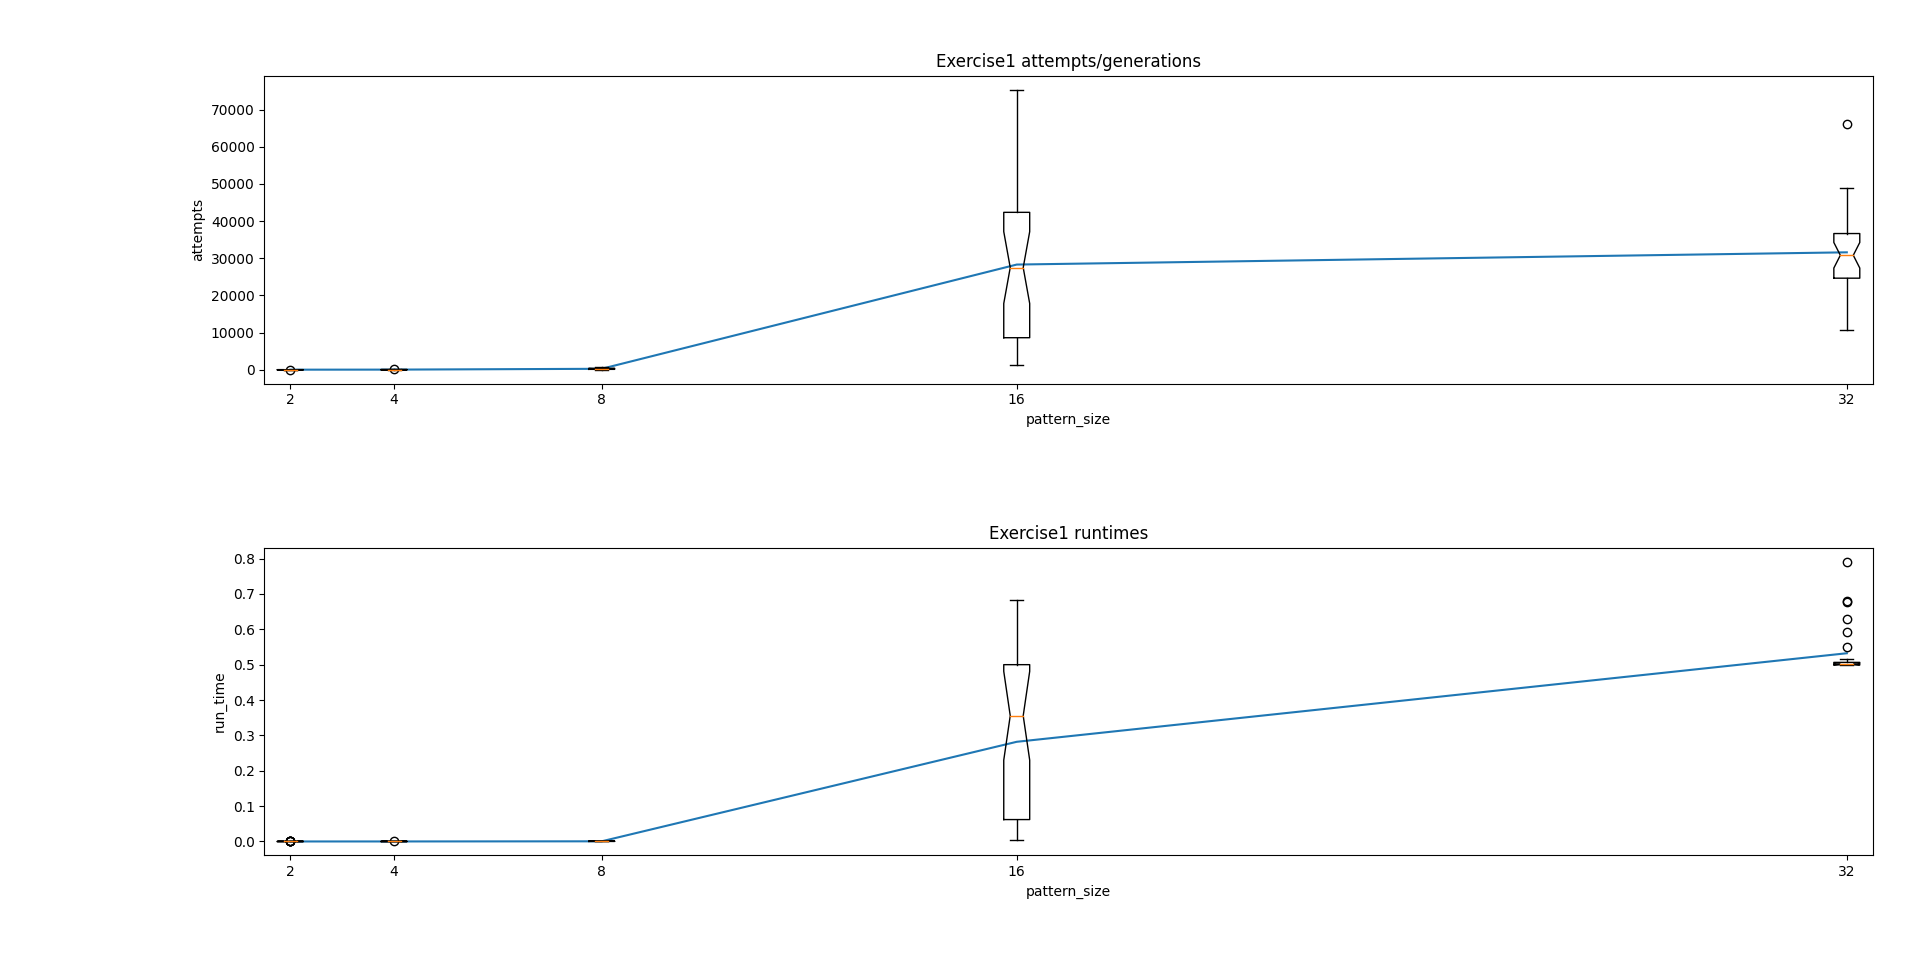
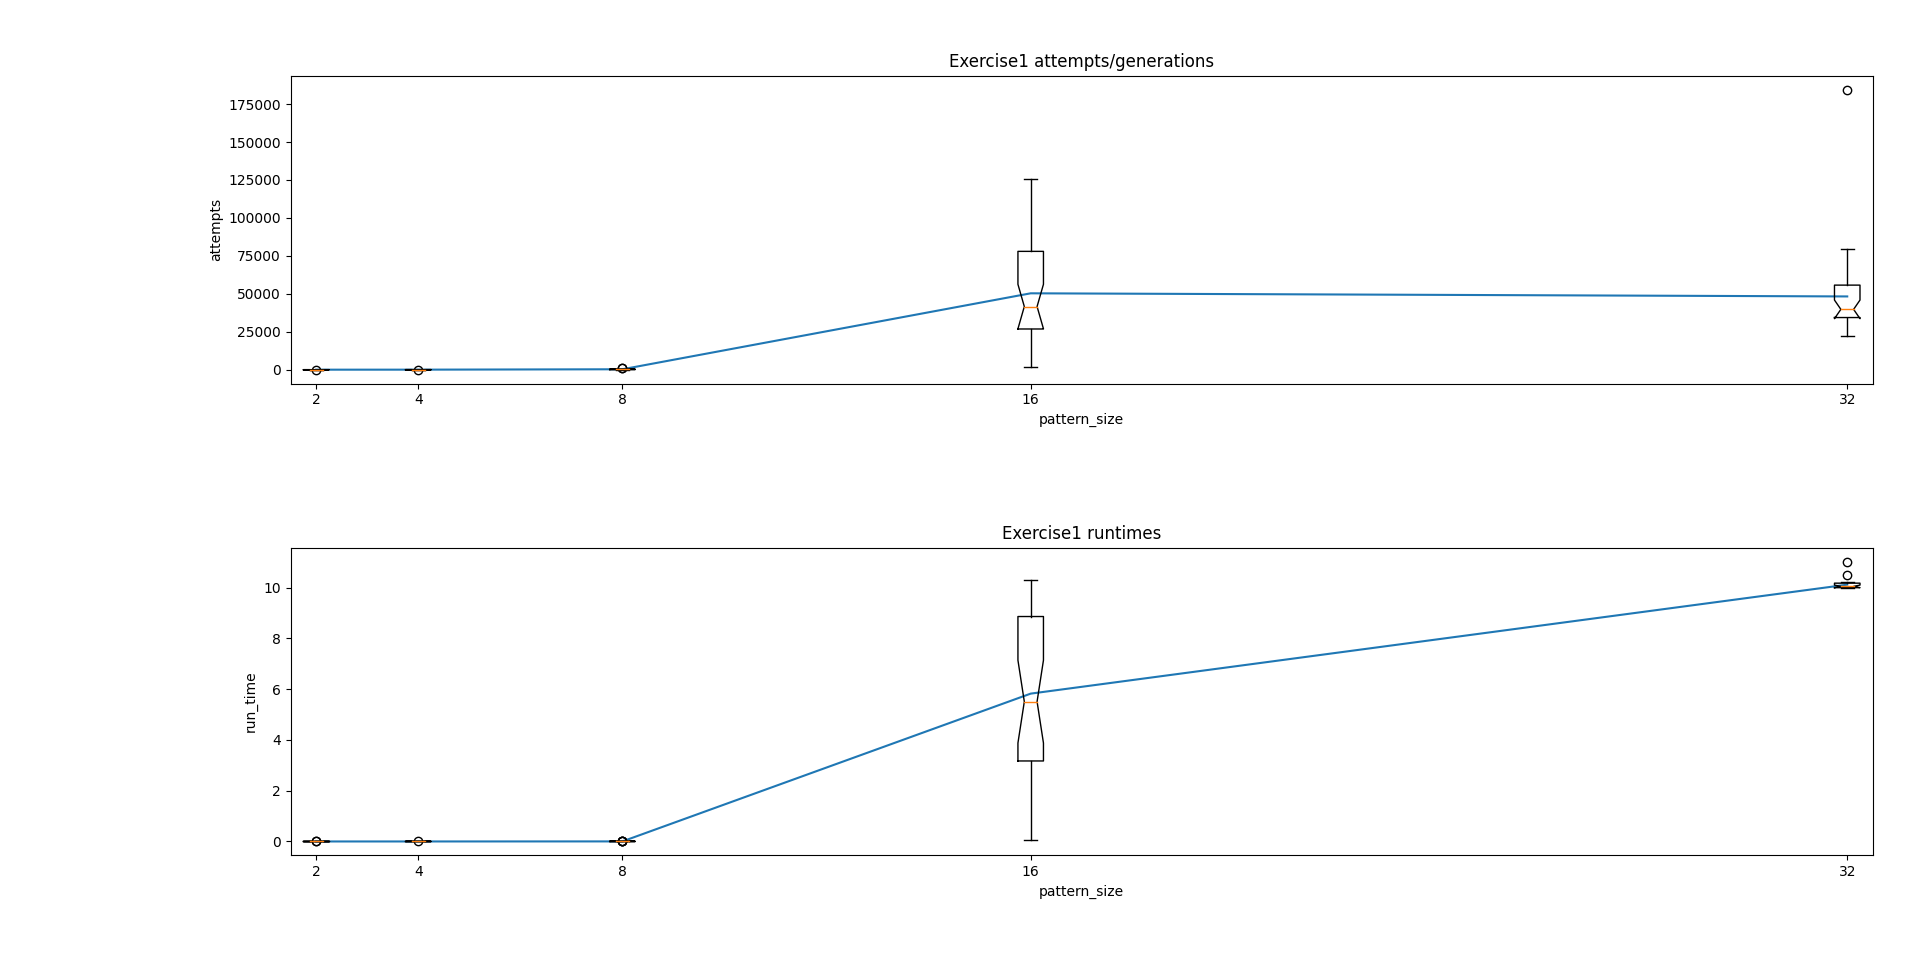
Fixed issue with the end condition for while loop in exercise1 and 2 Crossover in exercise5 Fitness, Mutation and Crossover in exercise6 Fixed print statement in Thread_Launcher.store_result

diff --git a/Assignment2_EvolutionaryMastermindSimulator/Exercises/Exercise6.py b/Assignment2_EvolutionaryMastermindSimulator/Exercises/Exercise6.py
@@ -7,6 +7,8 @@ from random import randint
 from Assignment2_EvolutionaryMastermindSimulator.Logic.Mastermind import Mastermind
 
 
+# First we would have to change the way we generate our patterns to acomodate the new decimal format
+
 def random_decimal_pattern(size: int) -> str:
     result: str = ""
     for _ in range(size):
@@ -19,13 +21,15 @@ def random_decimal() -> str:
     return random.choice(numbers)
 
 
+# Para avaliar os novos padrões decimais estou a iterar por todos os caracteres de ambos os padrões e
+# convertendo em numeros inteiros, depois calculo o absoluto da subtração do goal pelo curr
 def evaluate_decimal(goal: str, curr: str) -> int:
     # _dif_counter: int = max(len(goal), len(curr))
     _dif_counter: int = 0
     for charindex in range(min(len(curr), len(goal))):
         _goal_int: int = int(goal[charindex])
         _current_int: int = int(curr[charindex])
-        _dif_counter += _goal_int - _current_int
+        _dif_counter += abs(_goal_int - _current_int)
         # if curr[charindex] == goal[charindex]:
         #    _dif_counter -= 1
 
@@ -38,30 +42,104 @@ def evaluate_decimal_test():
         _current: str = random_decimal_pattern(4)
         _evaluation: int = evaluate_decimal(goal=_goal, curr=_current)
         print("goal=", _goal, "\t_current=", _current, "\tevaluation=", _evaluation)
+    print("goal=", "01231", "\t_current=", "01231", "\tevaluation=", evaluate_decimal(goal="01231", curr="01231"))
+    print("goal=", "01231", "\t_current=", "01233", "\tevaluation=", evaluate_decimal(goal="01231", curr="01233"))
 
 
-# Para corrigir a função de avaliação poderiamos, por exemplo armazenar o numero de caracteres iguais nos
-# dois padroẽs e dividir pelo tamanho do padrão maior entre os dois desta maneira tratamos de todas as
-# possibilidades, o goal ser maior e o goal ser menor, atribuindo menos fitness e ambas
+# Para corrigir a função de fitness
 def fitness_decimal(goal: str, curr: str) -> float:
-    pass
+    _max_diff: int = 9 * max(len(goal), len(curr))
+    _dif_counter: int = 9 * min(len(goal), len(curr))
+
+    for charindex in range(min(len(curr), len(goal))):
+        _goal_int: int = int(goal[charindex])
+        _current_int: int = int(curr[charindex])
+        _dif_counter -= abs(_goal_int - _current_int)
+        # if curr[charindex] == goal[charindex]:
+        #    _dif_counter -= 1
+
+    return _dif_counter / _max_diff
 
 
-def fitness_decimal_test(): pass
+def fitness_decimal_test():
+    for _ in range(10):
+        _goal: str = random_decimal_pattern(random.randint(1, 4))
+        _current: str = random_decimal_pattern(random.randint(1, 4))
+        _evaluation: float = fitness_decimal(goal=_goal, curr=_current)
+        print("goal=", _goal, "\t_current=", _current, "\tfitness=", _evaluation)
+    print("goal=", "01231", "\t_current=", "01231", "\tfitness=", fitness_decimal(goal="01231", curr="01231"))
+    print("goal=", "01231", "\t_current=", "012315", "\tfitness=", fitness_decimal(goal="01231", curr="012315"))
+    print("goal=", "01231", "\t_current=", "01233", "\tfitness=", fitness_decimal(goal="01231", curr="01233"))
+    print("goal=", "01231", "\t_current=", "012330", "\tfitness=", fitness_decimal(goal="01231", curr="012330"))
+    print("goal=", "01231", "\t_current=", "0123", "\tfitness=", fitness_decimal(goal="01231", curr="0123"))
 
 
-# In mutation my guess is that the function will have the chance of adding or removing a random bit
+# Para a função de mutação apenas terei de somar ou subtrair um valor a un caracter aleatório do padrão
+# para alem disso, como antes ter em conta as chances para adicionar ou remover um caracter
 
-def mutate_decimal_size(input: str) -> str: pass
+def mutate_decimal_size(mutation_input: str) -> str:
+    input_as_list = list(mutation_input)
+    # print(input_as_list)
+    same_add_remove: int = random.choice([1, 2, 3])
+    if same_add_remove == 1:
+        # same_length
+        index = randint(0, len(mutation_input) - 1)
+        print("same_length in ", index)
+        add_or_subtract = random.choice([True, False])
+        int_index_value: int = int(input_as_list[index])
+        if add_or_subtract:
+            input_as_list[index] = str(int_index_value + 1)
+        else:
+            input_as_list[index] = str(int_index_value - 1)
+
+    elif same_add_remove == 2:
+        # remove_bit
+        index = randint(0, len(mutation_input) - 1)
+        print("remove_bit in", index)
+        input_as_list.pop(index)
+    else:
+        # add_bit
+        index = randint(0, len(mutation_input))
+        _new_bit: str = random_decimal()
+        print("added_bit", _new_bit, " in", index)
+        input_as_list.insert(index, _new_bit)
+    # print(input_as_list)
+    return "".join(input_as_list)
 
 
-def mutate_decimal_test(): pass
+def mutate_decimal_test():
+    for _ in range(10):
+        _random: str = random_decimal_pattern(3)
+        _mutated: str = mutate_decimal_size(mutation_input=_random)
+        print(_random, _mutated)
+
+
+# Para um padrão de numeros decimais a função de crossover
+
+def crossover_decimal(input_a: str, input_b: str) -> str:
+    first_input = random.choice([True, False])
+    slice_index = randint(0, min(len(input_a), len(input_b)))
+    if first_input:
+        return input_a[0:slice_index+1] + input_b[slice_index-1:len(input_b)]
+    else:
+        return input_b[0:slice_index+1] + input_a[slice_index-1:len(input_a)]
+
+
+def crossover_decimal_test():
+    for _ in range(10):
+        _random_a: str = random_decimal_pattern(random.randint(1, 4))
+        _random_b: str = random_decimal_pattern(random.randint(1, 4))
+        _crossover_value: str = crossover_decimal(input_a=_random_a, input_b=_random_b)
+        print(_random_a, _random_b, _crossover_value)
 
 
 if __name__ == '__main__':
+    random.seed(1)
     print("----------evaluate_decimal_test----------")
     evaluate_decimal_test()
-    print("----------fitness_decimal----------")
+    print("----------fitness_decimal----------------")
     fitness_decimal_test()
-    print("----------mutate_decimal_test----------")
+    print("----------mutate_decimal_test-----------")
     mutate_decimal_test()
+    print("----------crossover_decimal_test-----------")
+    crossover_decimal_test()

diff --git a/Assignment2_EvolutionaryMastermindSimulator/Exercises/Exercise5.py b/Assignment2_EvolutionaryMastermindSimulator/Exercises/Exercise5.py
@@ -52,13 +52,13 @@ def fitness_undefined_size_test():
 
 # In mutation my guess is that the function will have the chance of adding or removing a random bit
 
-def mutate_undefined_size(input: str) -> str:
-    input_as_list = list(input)
+def mutate_undefined_size(mutation_input: str) -> str:
+    input_as_list = list(mutation_input)
     # print(input_as_list)
     same_add_remove: int = randint(0, 3)
     if same_add_remove == 1:
         # same_length
-        index = randint(0, len(input) - 1)
+        index = randint(0, len(mutation_input) - 1)
         print("same_length in ", index)
         if input_as_list[index] == "0":
             input_as_list[index] = "1"
@@ -66,30 +66,52 @@ def mutate_undefined_size(input: str) -> str:
             input_as_list[index] = "0"
     elif same_add_remove == 2:
         # remove_bit
-        index = randint(0, len(input) - 1)
+        index = randint(0, len(mutation_input) - 1)
         print("remove_bit in", index)
         input_as_list.pop(index)
     else:
         # add_bit
-        index = randint(0, len(input))
-        _new_bit:str = Mastermind.random_bit()
-        print("added_bit",_new_bit," in", index )
-        input_as_list.insert(index,_new_bit )
+        index = randint(0, len(mutation_input))
+        _new_bit: str = Mastermind.random_bit()
+        print("added_bit", _new_bit, " in", index)
+        input_as_list.insert(index, _new_bit)
     # print(input_as_list)
     return "".join(input_as_list)
 
 
 def mutate_undefined_size_test():
     for _ in range(10):
-        _random: str = Mastermind.random_bit_pattern(3)
-        _mutated: str = mutate_undefined_size(input=_random)
+        _random: str = Mastermind.random_bit_pattern(random.randint(1, 4))
+        _mutated: str = mutate_undefined_size(mutation_input=_random)
         print(_random, _mutated)
 
 
+# Para um tamanho indefinido de padrão temos apenas de nos certificar que o meio da divisão
+# não é maior que o tamanho de nenhum dos padrões
+
+def crossover_undefined_size(input_a: str, input_b: str) -> str:
+    first_input = randint(0, 1)
+    slice_index = randint(0, min(len(input_a), len(input_b)))
+    if first_input == 0:
+        return input_a[0:slice_index] + input_b[slice_index:len(input_b)]
+    else:
+        return input_b[0:slice_index] + input_a[slice_index:len(input_a)]
+
+
+def crossover_undefined_size_test():
+    for _ in range(10):
+        _random_a: str = Mastermind.random_bit_pattern(random.randint(1, 4))
+        _random_b: str = Mastermind.random_bit_pattern(random.randint(1, 4))
+        _crossover_value: str = crossover_undefined_size(input_a=_random_a, input_b=_random_b)
+        print(_random_a, _random_b, _crossover_value)
+
+
 if __name__ == '__main__':
-    print("----------evaluate_undefined_size_test----------")
+    print("----------evaluate_undefined_size_test-----------")
     evaluate_undefined_size_test()
-    print("----------fitness_undefined_size----------")
+    print("----------fitness_undefined_size-----------------")
     fitness_undefined_size_test()
-    print("----------mutate_undefined_size_test----------")
+    print("----------mutate_undefined_size_test-------------")
     mutate_undefined_size_test()
+    print("----------crossover_undefined_size_test----------")
+    crossover_undefined_size_test()

diff --git a/Assignment2_EvolutionaryMastermindSimulator/Exercises/Exercise2.py b/Assignment2_EvolutionaryMastermindSimulator/Exercises/Exercise2.py
@@ -29,35 +29,37 @@ def _assignment2_exercise2_line_a(pattern_size: int):
     _goal = Mastermind.random_bit_pattern(pattern_size)
     _current_pattern = Mastermind.random_bit_pattern(pattern_size)
     _results_attempts: int = 0
-    success = True
+    _success = True
 
     _results_start = timeit.default_timer()
     while _current_pattern != _goal:
         if timeit.default_timer() - _results_start > TIME_LIMIT:
-            success = False
+            _success = False
             result = Result(run_time=timeit.default_timer() - _results_start, attempts=_results_attempts,
                             pattern_size=pattern_size,
-                            successfull=success)
+                            successfull=_success)
             store_result(result=result, results=exercise2_results_list, lock=exercise2_lock)
-        _original_fitness = Mastermind.fitness(goal=_goal, curr=_current_pattern)
-        _counter: int = 0
-        _mutated: str = _current_pattern
-        while Mastermind.fitness(goal=_goal, curr=_mutated) <= _original_fitness and _counter < 1000:
-            _mutated = Mastermind.mutate(_current_pattern)
-            _results_attempts += 1
-            _counter += 1
-        _current_pattern = _mutated
+            return
+        else:
+            _original_fitness = Mastermind.fitness(goal=_goal, curr=_current_pattern)
+            _counter: int = 0
+            _mutated: str = _current_pattern
+            while Mastermind.fitness(goal=_goal, curr=_mutated) <= _original_fitness and _counter < 1000:
+                _mutated = Mastermind.mutate(_current_pattern)
+                _results_attempts += 1
+                _counter += 1
+            _current_pattern = _mutated
         # print("Assignment2::Exercise2::demo_graph::randomTest::goal:",_goal,"current:",_current_pattern)
         # fitnesses_list[bits.index(pattern_size)].append(Mastermind.fitness(goal=_goal, curr=_mutated))
-    _results_stop = timeit.default_timer()
-
-    result = Result(
-        run_time=_results_stop - _results_start,
-        attempts=_results_attempts,
-        pattern_size=pattern_size,
-        successfull=success,
-    )
-    store_result(result=result, results=exercise2_results_list, lock=exercise2_lock)
+    if _success:
+        _results_stop = timeit.default_timer()
+        result = Result(
+            run_time=_results_stop - _results_start,
+            attempts=_results_attempts,
+            pattern_size=pattern_size,
+            successfull=_success,
+        )
+        store_result(result=result, results=exercise2_results_list, lock=exercise2_lock)
 
 
 if __name__ == '__main__':

diff --git a/Assignment2_EvolutionaryMastermindSimulator/Exercises/Exercise1.py b/Assignment2_EvolutionaryMastermindSimulator/Exercises/Exercise1.py
@@ -23,23 +23,26 @@ def _assignment2_exercise1_line_b(patternSize: int):
     _start = timeit.default_timer()
     _attempts = 0
     _success: bool = True
-    while _goal_pattern != _generated_pattern and (timeit.default_timer() -_start) <TIME_LIMIT:
-        _generated_pattern = Mastermind.random_bit_pattern(size=patternSize)
-        #if timeit.default_timer() - _start > TIME_LIMIT:
-        #    _success = False
-        #    _result = Result(run_time=timeit.default_timer() - _start, attempts=_attempts, pattern_size=patternSize,
-        #                     successfull=_success)
-        #    store_result(result=_result, results=exercise1_results_list, lock=exercise1_lock)
+    while _goal_pattern != _generated_pattern and _success:
+        _current_time = timeit.default_timer()
+        if _current_time - _start > TIME_LIMIT:
+            _success = False
+            result = Result(run_time=timeit.default_timer() - _start, attempts=_attempts,
+                            pattern_size=patternSize,
+                            successfull=_success)
+            store_result(result=result, results=exercise1_results_list, lock=exercise1_lock)
+            #return
+        else:
+            _generated_pattern = Mastermind.random_bit_pattern(size=patternSize)
+            _attempts += 1
+    if _success:
+        _stop = timeit.default_timer()
+        _time: float = _stop - _start
+        _result = Result(run_time=_time, attempts=_attempts, pattern_size=patternSize, successfull=_success)
 
-        _attempts += 1
-    _stop = timeit.default_timer()
-    _time: float = _stop - _start
-
-    _result = Result(run_time=_time, attempts=_attempts, pattern_size=patternSize, successfull=_success)
-
-    #print("Assignment2_EvolutionaryMastermindSimulator::Exercise1::", threading.get_ident(),
-    #      "population_mean_fitness::" + str(_result))
-    store_result(result=_result, results=exercise1_results_list, lock=exercise1_lock)
+        #print("Assignment2_EvolutionaryMastermindSimulator::Exercise1::", threading.get_ident(),
+        #      "population_mean_fitness::" + str(_result))
+        store_result(result=_result, results=exercise1_results_list, lock=exercise1_lock)
 
 
 def _assignment2_exercise1_line_c():
@@ -80,3 +83,5 @@ if __name__ == '__main__':
     _assignment2_exercise1_line_c()
     print()
     _assignment2_exercise1_line_d()
+
+

diff --git a/Assignment2_EvolutionaryMastermindSimulator/Exercises/Thread_Launcher.py b/Assignment2_EvolutionaryMastermindSimulator/Exercises/Thread_Launcher.py
@@ -6,13 +6,19 @@ from Assignment2_EvolutionaryMastermindSimulator.Logic.Plotter import plot_resul
 from Assignment2_EvolutionaryMastermindSimulator.Logic.Result import Result
 
 
-def store_result(results:[Result], result: Result, lock:threading.Lock):
+def store_result(results: [Result], result: Result, lock: threading.Lock):
     lock.acquire()
     results[BITS.index(result.pattern_size)].append(result)
-    print(len(results[0]),len(results[1]),len(results[2]),len(results[3]),len(results[4]))
+    len_results_list: [int] = []
+    for i in range(len(results)):
+        len_results_list.append(len(results[i]))
+    print(len_results_list)
+
+    #print(len(results[0]),len(results[1]),len(results[2]),len(results[3]),len(results[4]))
     lock.release()
 
-def launch_Threads(method_to_run, results:[Result]):
+
+def launch_Threads(method_to_run, results: [Result]):
     with concurrent.futures.ThreadPoolExecutor() as executor:
         # [executor.submit(randomTest,bit) for bit in bits]
         for _ in range(TRIAL_RUNS):

diff --git a/Assignment2_EvolutionaryMastermindSimulator/Exercises/Constants.py b/Assignment2_EvolutionaryMastermindSimulator/Exercises/Constants.py
@@ -1,4 +1,4 @@
-TIME_LIMIT = 0.5  # seconds
+TIME_LIMIT = 10  # seconds
 TRIAL_RUNS = 30
-BITS = [2, 4, 8, 16, 32]
+BITS = [2, 4,8,16,32]
 STAGNATION_VARIANCE = 0.025
